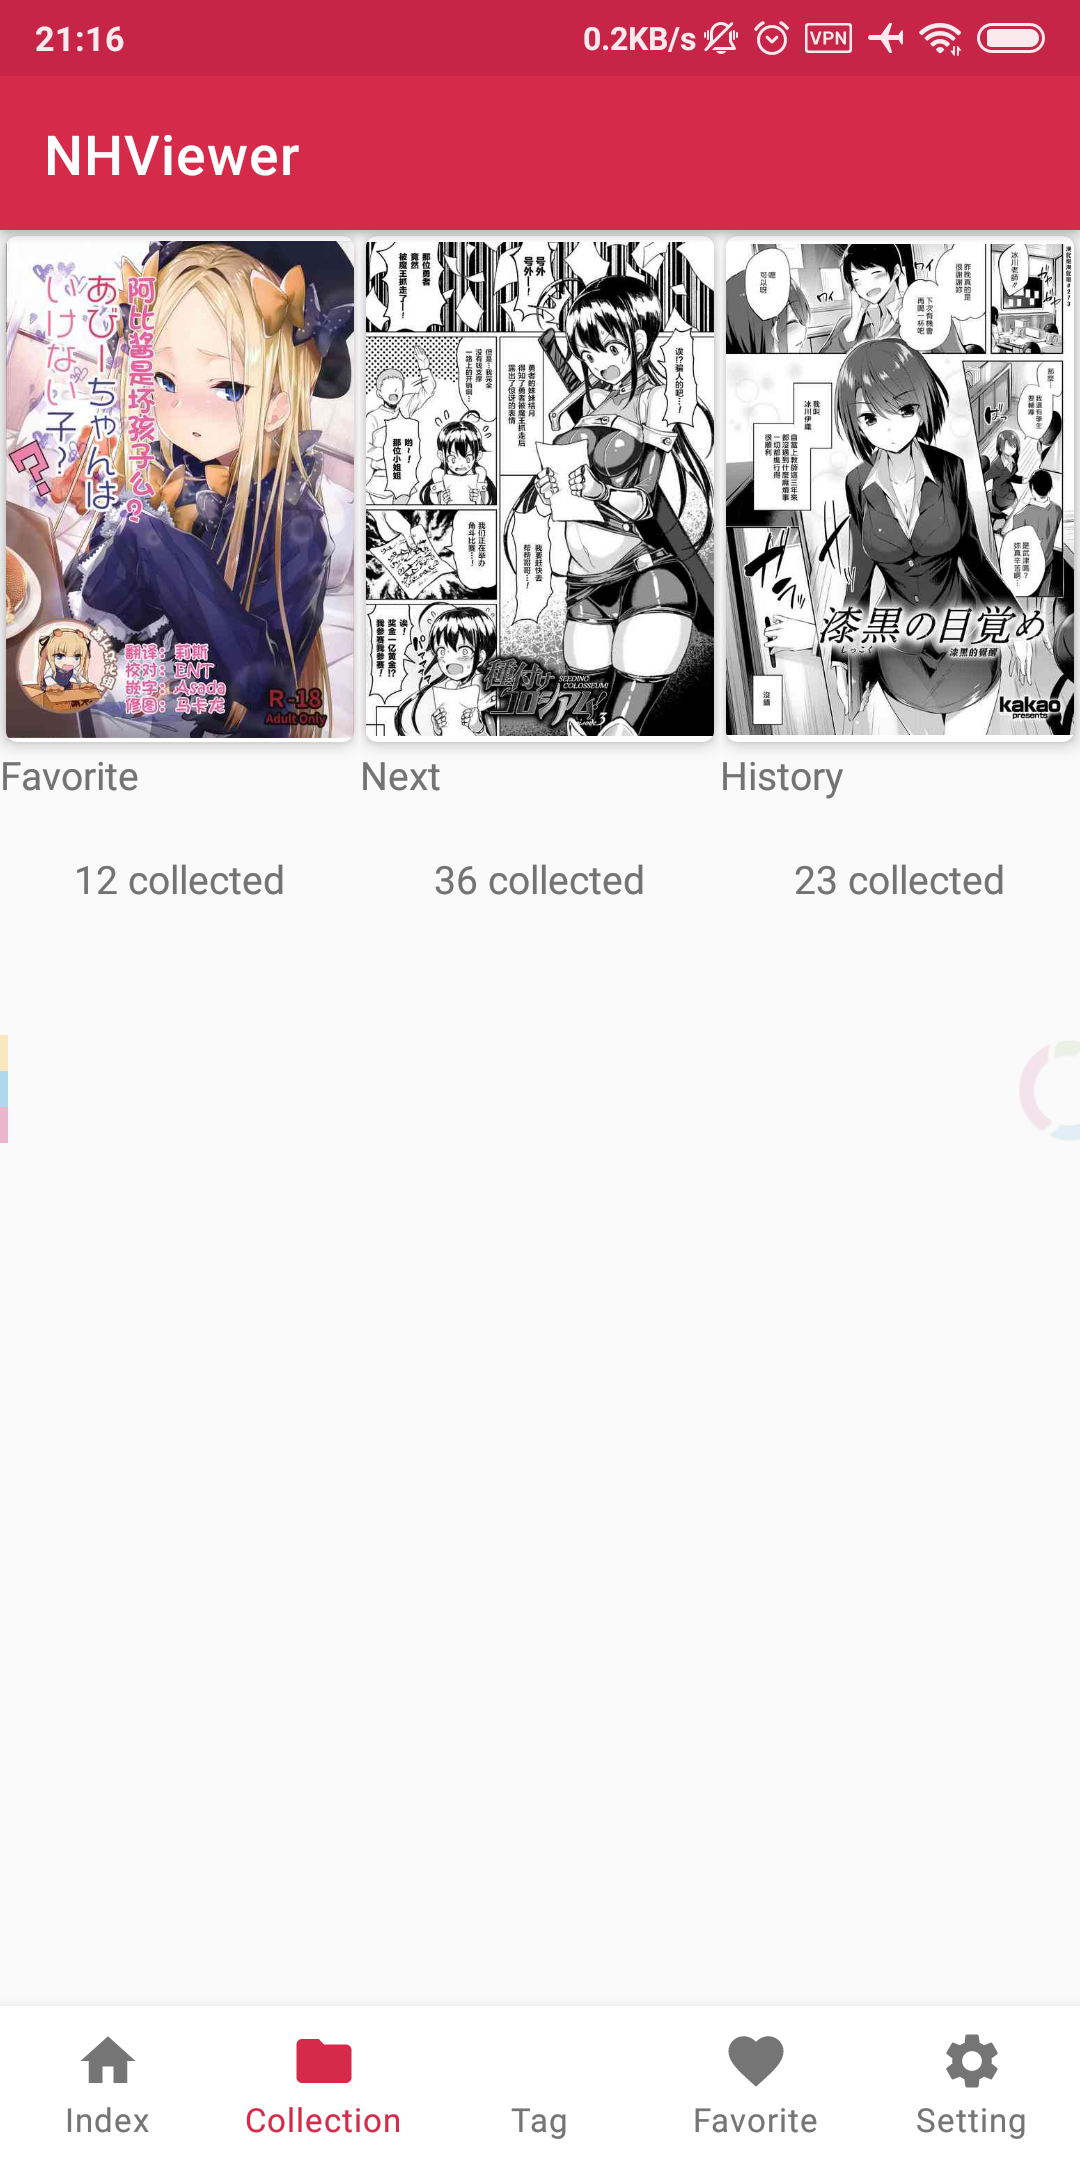
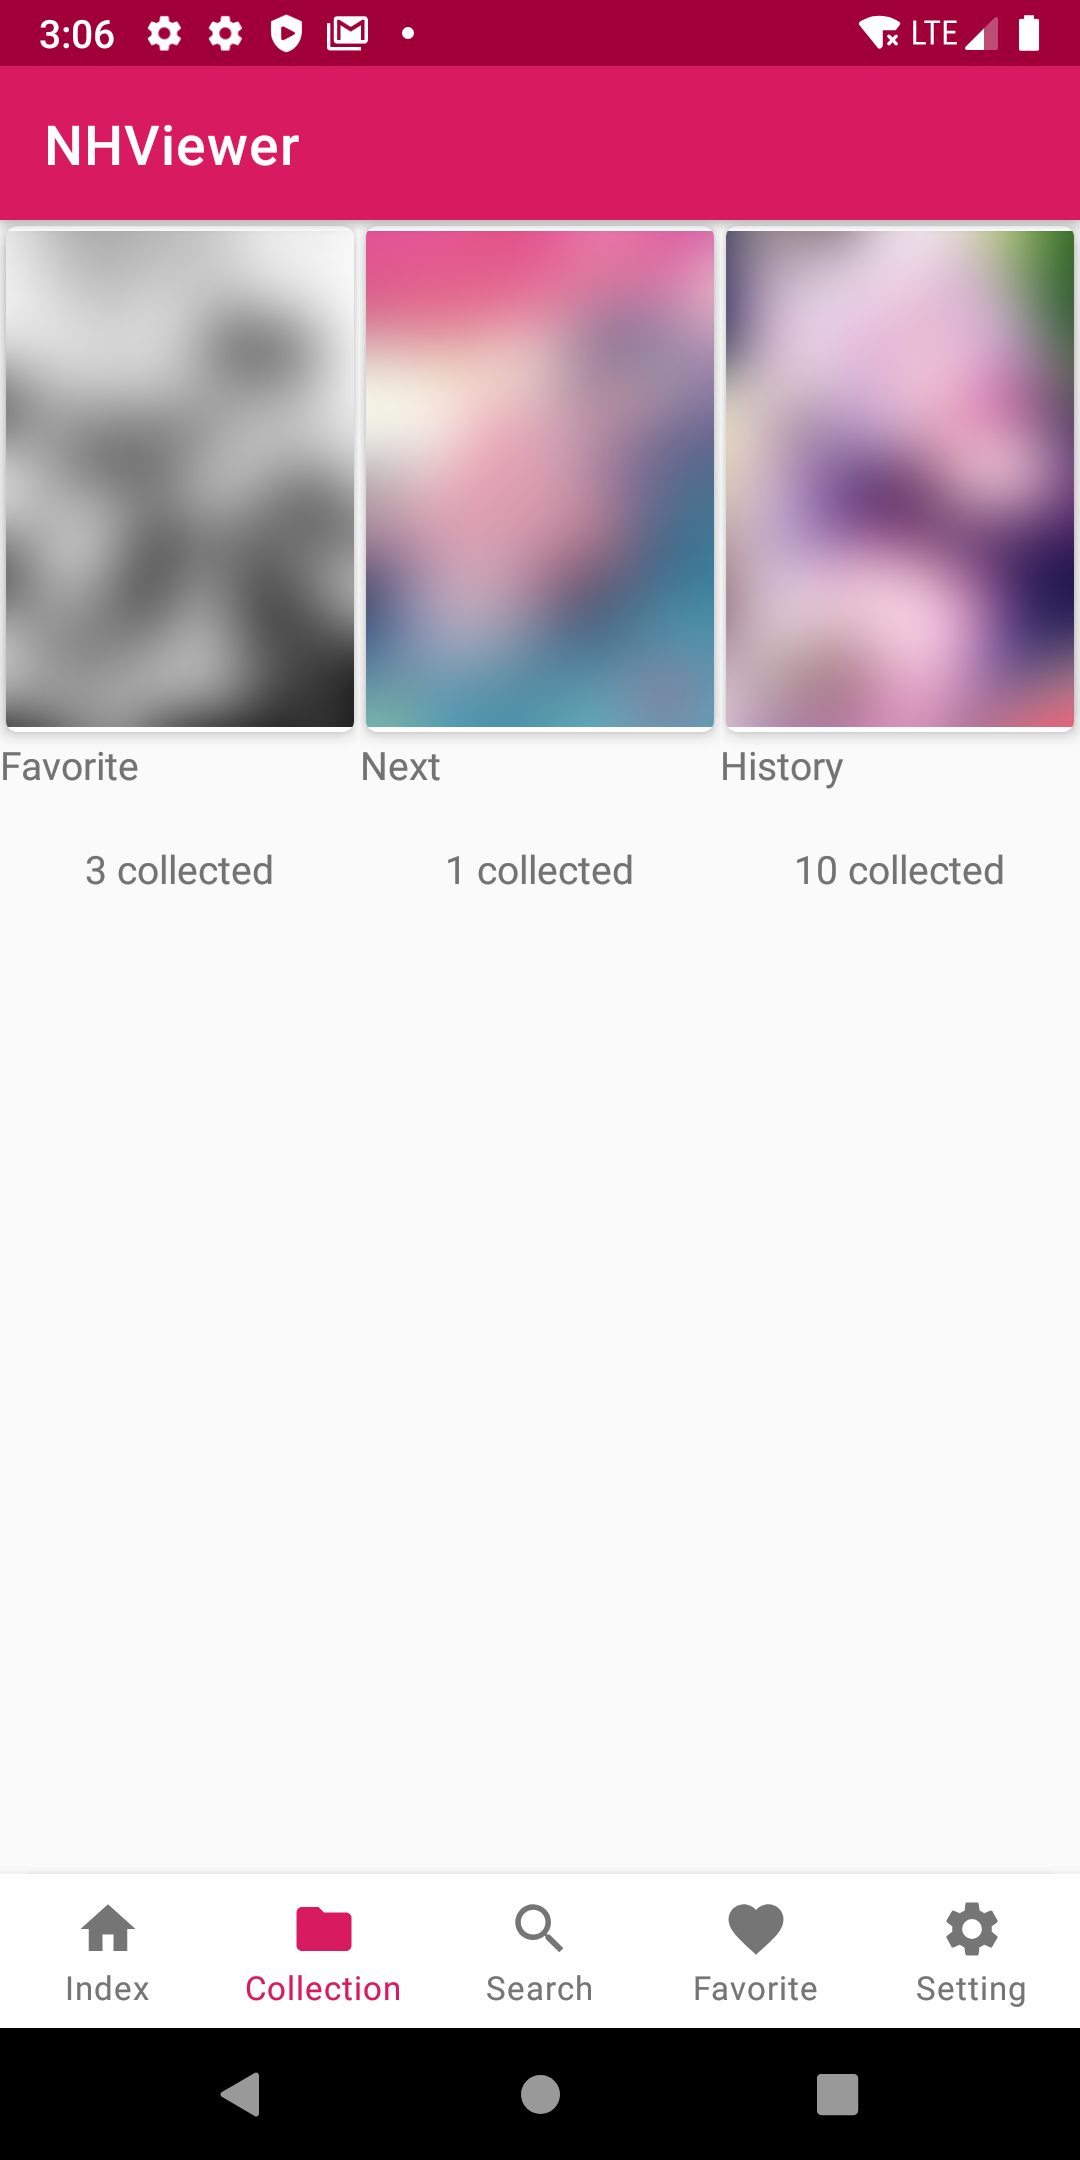
Update screenshots & readme

diff --git a/README.md b/README.md
@@ -34,9 +34,9 @@ Please contact me if there are any issue, thanks.
 
 [Backup server(Python3)](https://github.com/ttdyce/NHV-Backup-Server)
 
-## Screenshots
+## Screenshots (In demo mode( •̀ ω •́ )y)
 
-<img src="./screenshots/index.png" alt="Index page demo" width="280"><img src="./screenshots/collection.png" alt="Collection display demo" width="280"><img src="./screenshots/favorite.png" alt="Favorite display demo" width="280">
+<img src="./screenshots/index.png" alt="Index page demo" width="280"><img src="./screenshots/collection.png" alt="Collection display demo" width="280"><img src="./screenshots/search.png" alt="Search result display demo" width="280"><img src="./screenshots/favorite.png" alt="Favorite display demo" width="280"><img src="./screenshots/comic.png" alt="Comic inner page demo" width="280"><img src="./screenshots/setting.png" alt="Setting demo" width="280">
 
 ## Features
 
@@ -107,7 +107,7 @@ This project is licensed under the MIT License - see the [LICENSE.md](LICENSE.md
   - [EhViewer](https://github.com/seven332/EhViewer)
   
 - Dependencies
-  - Image blur, [glide-transformations](https://github.com/wasabeef/glide-transformations), from [wasabeef](https://github.com/wasabeef)
+  - Image blur: [glide-transformations](https://github.com/wasabeef/glide-transformations) from [wasabeef](https://github.com/wasabeef)
   - [QRCodeReaderView](https://github.com/dlazaro66/QRCodeReaderView) from [dlazaro66](https://github.com/dlazaro66)
   - [Gson](https://github.com/google/gson)
   - [jsoup](https://jsoup.org/download)
